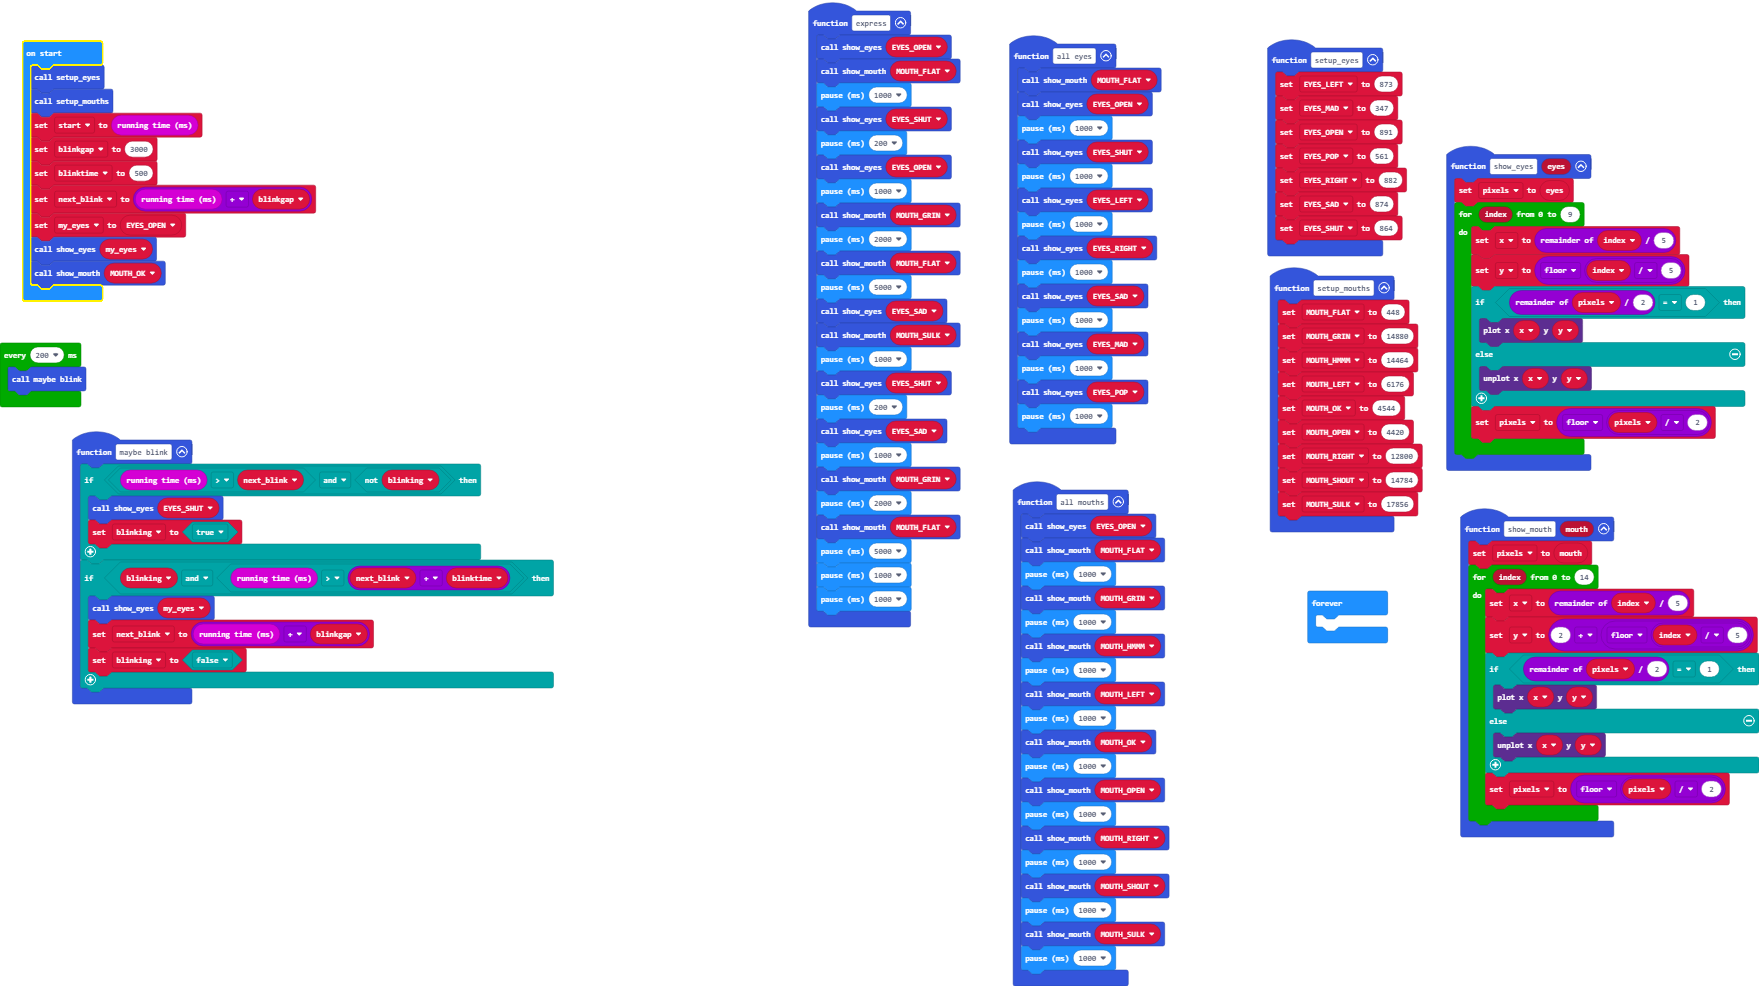
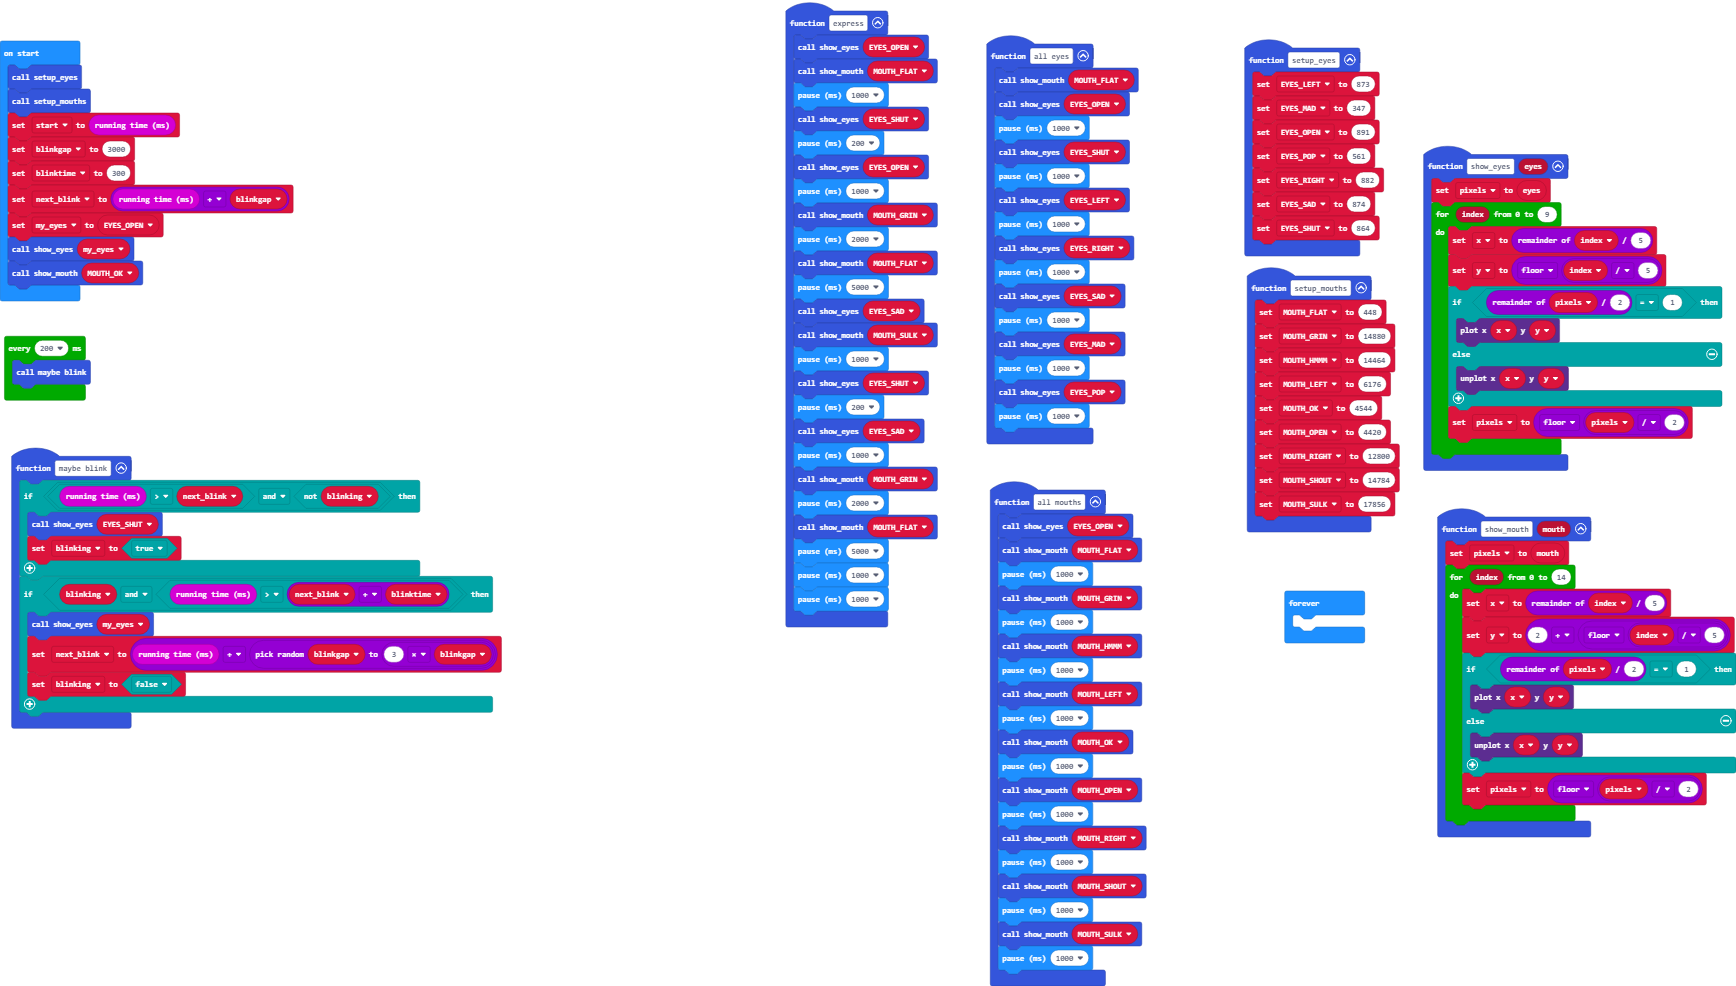
Update main.blocks, main.ts

diff --git a/main.ts b/main.ts
@@ -39,19 +39,10 @@ function maybe_blink () {
     }
     if (blinking && input.runningTime() > next_blink + blinktime) {
         show_eyes(my_eyes)
-        next_blink = input.runningTime() + randint(blinkgap, 2 * blinkgap)
+        next_blink = input.runningTime() + randint(blinkgap, 3 * blinkgap)
         blinking = false
     }
 }
-input.onButtonPressed(Button.A, function () {
-    my_eyes = EYES_LEFT
-    my_mouth = MOUTH_LEFT
-    show_eyes(my_eyes)
-    show_mouth(my_mouth)
-    basic.pause(500)
-    mood_level = 100
-    my_mood = MOOD_CURIOUS
-})
 function setup_eyes () {
     EYES_LEFT = 873
     EYES_MAD = 347
@@ -74,10 +65,6 @@ function show_mouth (mouth: number) {
         pixels = Math.floor(pixels / 2)
     }
 }
-input.onGesture(Gesture.SixG, function () {
-    my_mood = MOOD_ANGRY
-    mood_level = 100
-})
 function all_eyes () {
     show_mouth(MOUTH_FLAT)
     show_eyes(EYES_OPEN)
@@ -95,47 +82,6 @@ function all_eyes () {
     show_eyes(EYES_POP)
     basic.pause(1000)
 }
-input.onButtonPressed(Button.B, function () {
-    my_eyes = EYES_RIGHT
-    my_mouth = MOUTH_RIGHT
-    show_eyes(my_eyes)
-    show_mouth(my_mouth)
-    basic.pause(500)
-    my_mood = MOOD_CURIOUS
-    mood_level = 100
-})
-function maybe_react () {
-    mood_level += -1
-    if (mood_level > 50) {
-        if (my_mood == MOOD_AWAKE) {
-            my_eyes = EYES_OPEN
-            my_mouth = MOUTH_FLAT
-        } else if (my_mood == MOOD_HAPPY) {
-            my_eyes = EYES_OPEN
-            my_mouth = MOUTH_GRIN
-        } else if (my_mood == MOOD_SAD) {
-            my_eyes = EYES_SAD
-            my_mouth = MOUTH_SULK
-        } else if (my_mood == MOOD_ASLEEP) {
-            my_eyes = EYES_SHUT
-            my_mouth = MOUTH_OPEN
-        } else if (my_mood == MOOD_ANGRY) {
-            my_eyes = EYES_MAD
-            my_mouth = MOUTH_SHOUT
-        } else if (my_mood == MOOD_CURIOUS) {
-            my_eyes = EYES_POP
-            my_mouth = MOUTH_OK
-        }
-    } else if (mood_level < 0) {
-        blinktime += 100
-        blinkgap += -100
-    } else if (mood_level < -50) {
-        my_mood = MOOD_ASLEEP
-    } else if (mood_level < -500) {
-        my_mood = MOOD_DEAD
-        basic.showIcon(IconNames.Skull)
-    }
-}
 function setup_mouths () {
     MOUTH_FLAT = 448
     MOUTH_GRIN = 14880
@@ -147,19 +93,7 @@ function setup_mouths () {
     MOUTH_SHOUT = 14784
     MOUTH_SULK = 17856
 }
-input.onLogoEvent(TouchButtonEvent.Pressed, function () {
-	
-})
-function setup_moods () {
-    MOOD_DEAD = -1
-    MOOD_AWAKE = 0
-    MOOD_HAPPY = 1
-    MOOD_SAD = 2
-    MOOD_ASLEEP = 3
-    MOOD_ANGRY = 4
-    MOOD_CURIOUS = 5
-}
-function tryout () {
+function express () {
     show_eyes(EYES_OPEN)
     show_mouth(MOUTH_FLAT)
     basic.pause(1000)
@@ -185,20 +119,11 @@ function tryout () {
     basic.pause(1000)
     basic.pause(1000)
 }
-let MOOD_DEAD = 0
-let MOOD_ASLEEP = 0
-let MOOD_SAD = 0
-let MOOD_HAPPY = 0
-let MOOD_ANGRY = 0
 let EYES_SAD = 0
 let EYES_RIGHT = 0
 let EYES_POP = 0
 let EYES_MAD = 0
-let MOOD_CURIOUS = 0
-let mood_level = 0
-let my_mouth = 0
 let EYES_LEFT = 0
-let my_eyes = 0
 let EYES_SHUT = 0
 let blinking = false
 let y = 0
@@ -208,32 +133,28 @@ let MOUTH_SULK = 0
 let MOUTH_SHOUT = 0
 let MOUTH_RIGHT = 0
 let MOUTH_OPEN = 0
-let MOUTH_OK = 0
 let MOUTH_LEFT = 0
 let MOUTH_HMMM = 0
 let MOUTH_GRIN = 0
 let MOUTH_FLAT = 0
+let MOUTH_OK = 0
 let EYES_OPEN = 0
-let MOOD_AWAKE = 0
-let my_mood = 0
+let my_eyes = 0
 let next_blink = 0
 let blinktime = 0
 let blinkgap = 0
-pins.touchSetMode(TouchTarget.P1, TouchTargetMode.Capacitive)
-pins.touchSetMode(TouchTarget.P2, TouchTargetMode.Capacitive)
 setup_eyes()
 setup_mouths()
+let start = input.runningTime()
 blinkgap = 3000
-blinktime = 500
+blinktime = 300
 next_blink = input.runningTime() + blinkgap
-my_mood = MOOD_AWAKE
-maybe_react()
+my_eyes = EYES_OPEN
+show_eyes(my_eyes)
+show_mouth(MOUTH_OK)
 basic.forever(function () {
 	
 })
 loops.everyInterval(200, function () {
-    if (!(my_mood == MOOD_DEAD)) {
-        maybe_blink()
-        maybe_react()
-    }
+    maybe_blink()
 })
